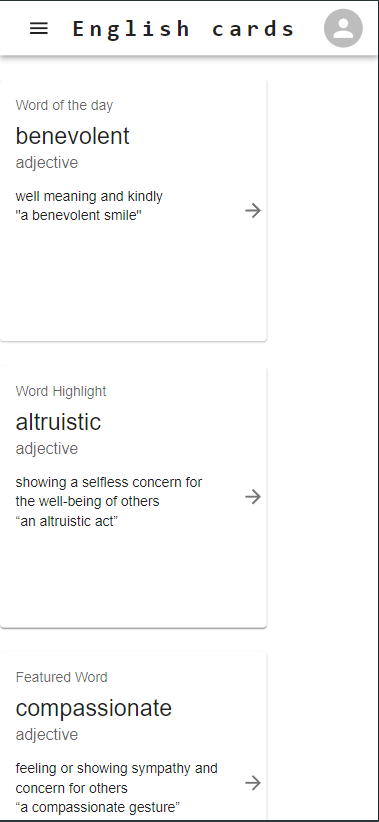
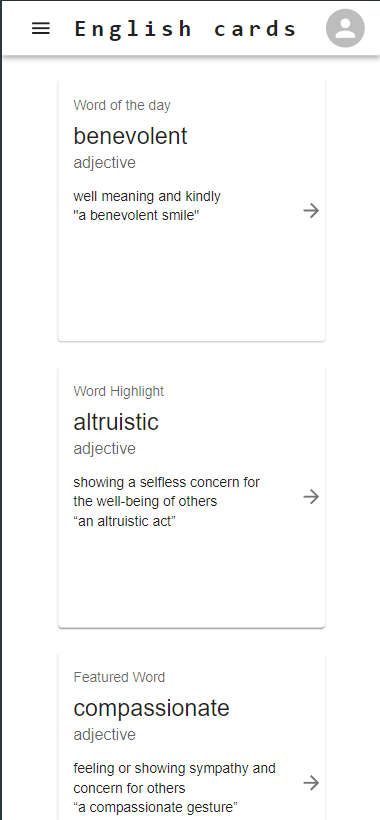
fix

diff --git a/client/src/pages/Private/Profile/ProfilePage.tsx b/client/src/pages/Private/Profile/ProfilePage.tsx
@@ -55,13 +55,13 @@ const Profile: React.FC = () => {
     <>
     <form className='profile_form'>
 
-      <TextField
+      <TextField variant="standard"
         label="Имя"
         type="text"
         value={formState.firstName || ''}
         onChange={(e) => handleChange('firstName', e.target.value)}
       />
-      <TextField
+      <TextField variant="standard"
         label="Фамилия"
         type="text"
         value={formState.lastName || ''}
@@ -76,21 +76,21 @@ const Profile: React.FC = () => {
         }
         label="Есть ли отчество?"
       />
-      <TextField
+      <TextField variant="standard"
         label="Отчество"
         type="text"
         value={formState.patronymic || ''}
         onChange={(e) => handleChange('patronymic', e.target.value)}
         disabled={!formState.hasPatronymic}
       />
-      <TextField
+      <TextField variant="standard"
         label="Дата рождения"
         type="date"
         InputLabelProps={{ shrink: true }}
         value={formState.birthDate || ''}
         onChange={(e) => handleChange('birthDate', e.target.value)}
       />
-      <FormControl>
+      <FormControl variant="standard">
         <InputLabel>Пол</InputLabel>
         <Select
           value={formState.gender || ''}
@@ -126,14 +126,14 @@ const Profile: React.FC = () => {
         label="Есть ли дети"
       />
       {formState.hasChildren && (
-        <TextField
+        <TextField variant="standard"
           label="Количество детей"
           type="number"
           value={formState.childrenCount || ''}
           onChange={(e) => handleChange('childrenCount', e.target.value)}
         />
       )}
-       <FormControl>
+       <FormControl variant="standard">
         <InputLabel >Уровень английского</InputLabel>
         <Select
           value={formState.eng || ''}
@@ -147,13 +147,13 @@ const Profile: React.FC = () => {
           <MenuItem value="C2">C2</MenuItem>
         </Select>
       </FormControl>
-      <TextField 
+      <TextField variant="standard"
           label="Сколько лет опыта английским?"
           type="number"
           value={formState.engYears || ''}
           onChange={(e) => handleChange('engYears', e.target.value)}
         />
-      <FormControl>
+      <FormControl variant="standard">
         <InputLabel>Хотели бы учить язык здесь?</InputLabel>
         <Select
           value={formState.want || ''}
@@ -163,7 +163,7 @@ const Profile: React.FC = () => {
           <MenuItem value="no">Нет</MenuItem>
         </Select>
       </FormControl>
-      <FormControl>
+      <FormControl variant="standard">
         <InputLabel>Учились ли вы с подобным приложением?</InputLabel>
         <Select
           value={formState.study || ''}
@@ -173,7 +173,7 @@ const Profile: React.FC = () => {
           <MenuItem value="no">Нет</MenuItem>
         </Select>
       </FormControl> 
-      <FormControl>
+      <FormControl variant="standard" >
         <InputLabel >Желаемый уровень английского</InputLabel>
         <Select
           value={formState.englevel || ''}
@@ -187,25 +187,25 @@ const Profile: React.FC = () => {
           <MenuItem value="C2">C2</MenuItem>
         </Select>
       </FormControl>   
-      <TextField
+      <TextField variant="standard"
         label="Слово описывающее вас"
         type="text"
         value={formState.word_discribe || ''}
         onChange={(e) => handleChange('word_discribe', e.target.value)}
       /> 
-      <TextField
+      <TextField variant="standard"
         label="Страна проживания"
         type="text"
         value={formState.country || ''}
         onChange={(e) => handleChange('country', e.target.value)}
       /> 
-       <TextField
+       <TextField variant="standard"
         label="Город проживания"
         type="text"
         value={formState.city || ''}
         onChange={(e) => handleChange('city', e.target.value)}
       /> 
-      <TextField
+      <TextField variant="standard"
         label="Город мечты"
         type="text"
         value={formState.cityDream || ''}

diff --git a/client/src/components/card/cards.css b/client/src/components/card/cards.css
@@ -4,4 +4,5 @@
     display: grid;
     grid-template-columns: repeat(auto-fill, minmax(275px, 1fr));
     justify-content: center;
+    justify-items: center;
 }
